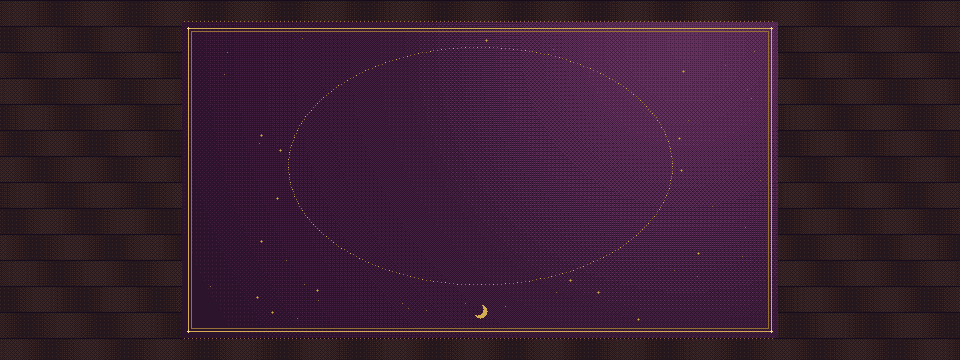
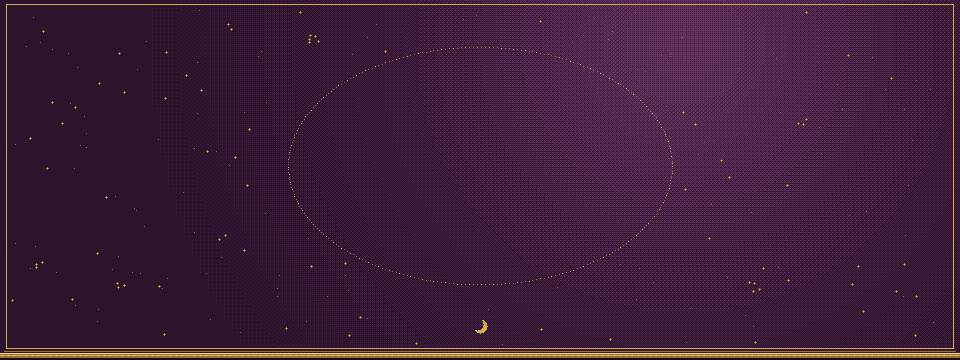
Bàn của Nguyệt: khăn phủ kín như góc mặt Nguyệt, vạt áo và hai tay nghỉ ở mép xa
- Vẽ lại mặt bàn nhìn từ trên cho khớp tấm khăn ở góc mặt Nguyệt: khăn
  phủ kín tới mép bàn (bỏ viền gỗ trơn), viền thêu vàng một nét, mép gần
  là dải viền vàng đính hạt, sao thêu và chòm sao như khăn bên kia.
- Nguyệt ngồi ở mép xa: vạt áo choàng xanh sao (table/robe.png) phủ qua
  mép bàn, phần trên chìm vào bóng tối; hai bàn tay nghỉ ở hai bên vạt áo.
  Tay đang chỉ lá hay đang xào bài thì rời chỗ nghỉ.
- Ảnh mới có nguồn gốc nhúng (embed-prompt, quét 0 thiếu). Cập nhật
  DESIGN.md; ảnh chụp 390 và 1440.

Changed region(s): [[0.0, 0.0, 1.0, 1.0], [0.1875, 0.8861, 0.2188, 0.9167]]

diff --git a/src/components/ui/TableView.tsx b/src/components/ui/TableView.tsx
@@ -59,6 +59,20 @@ function PointingHand() {
   return <Arm hand="point" className="is-pointing" />;
 }
 
+/**
+ * Nguyệt ngồi ở mép xa của bàn: vạt áo choàng phủ lên mép bàn và hai bàn tay nghỉ úp ngay dưới gấu áo,
+ * như ở góc mặt Nguyệt. Bàn tay nào đang chỉ lá hay đang xào bài thì rời chỗ nghỉ (`free`).
+ */
+function Keeper({ free }: { free: "left" | "right" | "both" | null }) {
+  return (
+    <>
+      <span className="table-robe" aria-hidden style={{ backgroundImage: `url("${assetUrl("/assets/table/robe.png")}")` }} />
+      {free !== "left" && free !== "both" && <Arm hand="rest" className="is-resting is-left" />}
+      {free !== "right" && free !== "both" && <Arm hand="rest" className="is-resting is-right" />}
+    </>
+  );
+}
+
 function Slot({ c, i, revealed, active, hand }: { c: DrawnCard; i: number; revealed: boolean; active: boolean; hand: boolean }) {
   return (
     <div className={`table-slot ${active ? "is-active" : ""}`} data-pos={i}>
@@ -78,6 +92,7 @@ export function TableView({ spread, cards, revealed, active, shuffling, picking,
     return (
       <div className={field()} role="img" aria-label="Nguyệt đang xào bài">
         {/* hai nửa bộ bài, mỗi nửa dưới một bàn tay, tách ra rồi gập vào nhau */}
+        <Keeper free="both" />
         <div className="table-shuffle" aria-hidden>
           {["half-a", "half-b"].map((h) => (
             <div key={h} className={`shuffle-half ${h}`}>
@@ -95,6 +110,7 @@ export function TableView({ spread, cards, revealed, active, shuffling, picking,
   if (picking) {
     return (
       <div className={field()}>
+        <Keeper free={null} />
         <p className="table-count" aria-live="polite">
           Đã chọn {picked.length}/{cards.length}
         </p>
@@ -134,8 +150,12 @@ export function TableView({ spread, cards, revealed, active, shuffling, picking,
     );
   }
 
+  // tay chỉ lá dùng bàn tay phía lá đó (lá giữa: tay phải); lá làm rõ không có tay chỉ
+  const pointing = main.findIndex(({ i }) => i === active);
+  const free = pointing < 0 ? null : pointing < (main.length - 1) / 2 ? "left" : "right";
   return (
     <div className={field(extra.length ? "has-extra" : "")}>
+      <Keeper free={free} />
       <div className={`table-spread ${SHAPE[spread]}`}>
         {main.map(({ c, i }) => (
           <Slot key={`${c.card.id}-${i}`} c={c} i={i} revealed={revealed.has(i)} active={active === i} hand />

diff --git a/src/app/globals.css b/src/app/globals.css
@@ -963,6 +963,48 @@ img {
   -webkit-mask-image: linear-gradient(to bottom, transparent 0 16%, rgb(0 0 0 / 0.35) 16% 28%, rgb(0 0 0 / 0.7) 28% 40%, #000 40%);
   mask-image: linear-gradient(to bottom, transparent 0 16%, rgb(0 0 0 / 0.35) 16% 28%, rgb(0 0 0 / 0.7) 28% 40%, #000 40%);
 }
+/* Nguyệt ở mép xa của bàn: vạt áo phủ qua mép bàn, hai bàn tay nghỉ ở hai bên vạt áo, ống tay vươn từ phía nàng ngồi.
+   Cùng thang pixel với lá (1 px ảnh = --w/48); ngồi sát mép trên vùng chơi (field đệm 0.75rem dưới mép đó). */
+.table-field {
+  --w: clamp(72px, min(21.5vw, 15vh), 136px);
+  /* tâm hình trải; desktop có sổ ghim thì trừ cột sổ (đệm phải) ra */
+  --cx: 50%;
+}
+.table-field.has-notebook {
+  --w: clamp(96px, min(13vw, 18.5vh), 176px);
+  --cx: calc(50% - (min(30vw, 360px) + 24px) / 2);
+}
+/* vạt áo nằm dưới mọi bàn tay (tay vươn ra trước người), trên khăn */
+.table-robe {
+  position: absolute;
+  top: -0.75rem;
+  left: var(--cx);
+  width: calc(var(--w) * 96 / 48);
+  height: calc(var(--w) * 34 / 48);
+  transform: translateX(-50%);
+  background-size: 100% 100%;
+  image-rendering: pixelated;
+  pointer-events: none;
+}
+/* bàn tay nghỉ: một đoạn ống tay, cổ tay áo và bàn tay, ngay hai bên vạt áo */
+.table-arm.is-resting {
+  top: calc(-0.75rem + var(--w) * 0.02);
+  bottom: auto;
+  height: calc(var(--aw) * 66 / 34);
+  animation: none;
+}
+.table-arm.is-resting.is-left {
+  left: calc(var(--cx) - var(--w) * 1.12);
+  transform: translateX(-50%) scaleX(-1);
+}
+.table-arm.is-resting.is-right {
+  left: calc(var(--cx) + var(--w) * 1.12);
+  transform: translateX(-50%);
+}
+/* tay trái lật gương: lật luôn hướng bóng để bóng vẫn đổ xuống bên trái (nến ở góc trên phải) */
+.table-arm.is-resting.is-left .arm-shadow {
+  transform: translate(calc(var(--aw) * 0.16), calc(var(--aw) * 0.16));
+}
 /* sổ mở trên điện thoại phủ kín bàn: cất cánh tay để ống tay không thò ra phía trên sổ */
 .table-field:has(> .notebook.is-open) .table-arm {
   display: none;
@@ -1082,6 +1124,7 @@ img {
 @media (max-height: 700px) {
   .table-field:has(> .notebook-peek) {
     padding-top: 1.5rem;
+    --w: clamp(56px, min(21.5vw, 9.5vh), 136px);
   }
   .table-field:has(> .notebook-peek) .table-slot {
     --w: clamp(56px, min(21.5vw, 9.5vh), 136px);

diff --git a/art/table.py b/art/table.py
@@ -12,30 +12,19 @@ import characters
 
 # ------------------------------------------------------------------ mặt bàn
 def tabletop(W, H, seed, CW=None):
-    """Khăn tím mận trên mặt bàn gỗ; viền thêu vàng, sao thêu, vòng đọc bài chấm vàng.
-    CW: bề rộng phần khăn + lề (căn giữa); phần gỗ thừa hai bên để máy lia ngang khi sổ nằm
-    ở góc bàn mà không lộ mép ảnh. Ánh nến đến từ góc trên phải khăn (dither Bayer)."""
+    """Mặt bàn của Nguyệt nhìn từ trên xuống, cùng tấm khăn ở góc mặt Nguyệt (interior.table):
+    khăn tím mận phủ kín tới mép bàn, một đường viền thêu vàng chạy quanh, mép gần phía khách là chỗ
+    khăn gập xuống với dải viền vàng đính hạt; sao thêu và chòm sao như mặt khăn bên kia; vòng đọc bài
+    chấm vàng; trăng khuyết thêu ở mép gần. Mép xa để trơn: vạt áo của Nguyệt phủ lên đó (DOM, .table-robe).
+    CW: bề rộng vùng giữa dùng để đặt vòng đọc bài và chừa chỗ sao; phần thêm hai bên cho máy lia ngang
+    khi sổ nằm ở góc bàn. Ánh nến đến từ góc trên phải (dither Bayer)."""
     CW = CW or W
-    ox = (W - CW) // 2
-    img = new(W, H, 'w0')
+    img = new(W, H, 'p0')
     px = img.load()
-    # gỗ: ván dọc theo chiều ngang, vân bằng dither
-    plank = 26
+    lx, ly = (W - CW) // 2 + CW * 0.82, H * 0.12    # nguồn sáng: ngọn nến
+    diag = math.hypot(CW, H)
     for y in range(H):
         for x in range(W):
-            k = (y // plank)
-            t = ((x * 0.013 + k * 1.7) % 1.0)
-            col = 'w1' if bayer(x, y, 0.35 + 0.3 * math.sin(t * math.tau)) else 'w0'
-            if y % plank == 0:
-                col = 'out'
-            px[x, y] = c(col)
-    # khăn
-    m = 22 if CW > H else 16
-    x0, y0, x1, y1 = ox + m, m, ox + CW - 1 - m, H - 1 - m
-    lx, ly = ox + CW * 0.82, H * 0.12    # nguồn sáng: ngọn nến
-    diag = math.hypot(CW, H)
-    for y in range(y0, y1 + 1):
-        for x in range(x0, x1 + 1):
             light = 1 - math.hypot(x - lx, y - ly) / diag      # 0..1
             col = 'p0'
             if bayer(x, y, max(0, light - .25) * 1.6):
@@ -44,38 +33,51 @@ def tabletop(W, H, seed, CW=None):
                 col = 'p2'
             px[x, y] = c(col)
     d = draw(img)
-    # viền thêu: hai đường vàng + chấm ở góc
-    for inset, col in ((6, 'au1'), (9, 'au0')):
-        d.rectangle([x0 + inset, y0 + inset, x1 - inset, y1 - inset], outline=c(col))
-    for (cx, cy) in ((x0 + 6, y0 + 6), (x1 - 6, y0 + 6), (x0 + 6, y1 - 6), (x1 - 6, y1 - 6)):
-        for dx, dy in [(0, 0), (1, 0), (-1, 0), (0, 1), (0, -1)]:
-            put(img, cx + dx, cy + dy, 'au2')
-    # tua rua ở mép khăn
-    for x in range(x0 + 2, x1 - 1, 4):
-        put(img, x, y0 - 1, 'au0')
-        put(img, x, y1 + 1, 'au0')
-        put(img, x, y1 + 2, 'au0' if x % 8 == 2 else 'p0')
-    # sao thêu rải, chừa vùng giữa cho lá bài
+    # đường viền thêu một nét quanh mặt bàn, như mặt khăn ở góc mặt Nguyệt
+    d.rectangle([6, 4, W - 7, H - 12], outline=c('au1'))
+    # mép gần: khăn gập xuống phía khách, hai đường vàng rồi dải viền đính hạt
+    d.line([(4, H - 9), (W - 5, H - 9)], fill=c('au0'))
+    d.line([(0, H - 7), (W, H - 7)], fill=c('au2'))
+    d.rectangle([0, H - 6, W, H - 3], fill=c('au0'))
+    d.line([(0, H - 5), (W, H - 5)], fill=c('au1'))
+    for x in range(2, W, 6):
+        put(img, x, H - 5, 'au2')
+    d.rectangle([0, H - 2, W, H - 1], fill=c('out'))
+    # sao thêu: chấm vàng, một phần là sao bốn cánh, cùng mật độ cảm giác như mặt khăn bên kia;
+    # chừa vòng đọc bài để lá bài nằm trên nền yên
     r = rng(seed)
-    for _ in range(int(CW * H / 2600)):
-        x, y = r.randint(x0 + 16, x1 - 16), r.randint(y0 + 16, y1 - 16)
-        if abs(x - W / 2) < CW * 0.3 and abs(y - H * 0.46) < H * 0.3:
-            continue
+    rx, ry = (CW * 0.30, H * 0.33) if CW > H else (CW * 0.40, H * 0.27)
+    cx, cy = W / 2, H * 0.46
+
+    def star(x, y, big):
         put(img, x, y, 'au0')
-        if r.random() < .35:
+        if big:
             for dx, dy in [(1, 0), (-1, 0), (0, 1), (0, -1)]:
                 put(img, x + dx, y + dy, 'au0')
             put(img, x, y, 'au1')
+
+    for _ in range(int(W * H / 1500)):
+        x, y = r.randint(12, W - 13), r.randint(10, H - 16)
+        if ((x - cx) / (rx + 10)) ** 2 + ((y - cy) / (ry + 10)) ** 2 < 1:
+            continue
+        star(x, y, r.random() < .3)
+    # vài chòm sao nhỏ (ba tới năm sao nối nhau) ngoài vòng đọc bài
+    for _ in range(max(3, int(W * H / 60000))):
+        for _try in range(20):
+            x, y = r.randint(24, W - 25), r.randint(18, H - 30)
+            if ((x - cx) / (rx + 24)) ** 2 + ((y - cy) / (ry + 24)) ** 2 >= 1:
+                break
+        for _k in range(r.randint(3, 5)):
+            star(x, y, True)
+            x += r.randint(-9, 9)
+            y += r.randint(-6, 6)
     # vòng đọc bài: elip chấm vàng
-    # bản ngang: vòng nhỏ hơn một chút để sổ nằm mở bên phải mà không cắt vòng
-    rx, ry = (CW * 0.30, H * 0.33) if CW > H else (CW * 0.40, H * 0.27)
-    cx, cy = W / 2, H * 0.46
     steps = int(2 * math.pi * max(rx, ry) / 4)
     for i in range(steps):
         a = 2 * math.pi * i / steps
         put(img, round(cx + rx * math.cos(a)), round(cy + ry * math.sin(a)), 'au0' if i % 3 else 'au1')
-    # trăng khuyết thêu ở mép gần (phía khách)
-    mx, my = int(W / 2), int(y1 - (26 if CW > H else 34))
+    # trăng khuyết thêu ở mép gần (phía khách), như trăng trên vạt khăn ở góc mặt Nguyệt
+    mx, my = int(W / 2), int(H - (34 if CW > H else 44))
     for y in range(my - 9, my + 10):
         for x in range(mx - 9, mx + 10):
             if (x - mx) ** 2 + (y - my) ** 2 <= 7 ** 2 and (x - mx + 3) ** 2 + (y - my + 2) ** 2 > 6 ** 2:
@@ -83,7 +85,48 @@ def tabletop(W, H, seed, CW=None):
     return img
 
 
-# ------------------------------------------------------------------ tay Nguyệt (đưa từ phía bên kia bàn, nhìn từ trên)
+def robe():
+    """Lòng Nguyệt nhìn từ trên xuống, nàng ngồi bên kia mép xa của bàn: vạt áo choàng xanh sao phủ qua mép bàn,
+    gấu vàng cong chùng ở giữa, hai bên bo tròn (hai tay vươn ra từ hai bên, .table-arm.is-resting).
+    Phần trên chìm dần vào bóng tối phía nàng ngồi (dither tới 'out'), nên mép cắt ở đỉnh vùng chơi không lộ.
+    Cùng chất liệu ống tay (n1..n3, sao kem). Dưới gấu là bóng đổ lên khăn bằng dither."""
+    W, H = 96, 34
+    img = new(W, H)
+    px = img.load()
+    for x in range(W):
+        t = (x + 0.5) / W
+        u = 2 * t - 1                                      # -1..1
+        # gấu áo: cung elip, thấp nhất ở giữa, bo lên ở hai bên
+        hem = int(8 + 18 * math.sqrt(max(0.0, 1 - u * u)))
+        for y in range(0, hem + 1):
+            dark = 1 - y / max(1, hem)                     # 1 ở đỉnh, 0 ở gấu
+            col = 'n2'
+            if bayer(x, y, 0.25 + 0.45 * abs(u) ** 2):     # hai bên tối hơn (bo tròn)
+                col = 'n1'
+            if bayer(x, y, max(0, dark - 0.45) * 1.9):     # đỉnh chìm vào bóng tối
+                col = 'out'
+            px[x, y] = c(col)
+        # nếp gấp dọc ở giữa vạt
+        if abs(u) < 0.75 and x % 13 in (0, 1):
+            for y in range(int(hem * 0.45), hem - 2):
+                px[x, y] = c('n3' if x % 13 == 0 else 'n1')
+        # viền gấu vàng
+        if abs(u) < 0.97:
+            px[x, hem] = c('au0')
+            px[x, hem - 1] = c('au1' if x % 4 else 'au2')
+            if hem + 1 < H:
+                px[x, hem + 1] = c('out')
+            for k, dens in ((2, .7), (3, .45), (4, .25), (5, .12)):
+                if hem + k < H and bayer(x, hem + k, dens):
+                    px[x, hem + k] = c('out')
+    r = rng(5)
+    for _ in range(18):
+        x, y = r.randint(6, W - 7), r.randint(8, 22)
+        if px[x, y][3] and px[x, y][:3] == PAL['n2']:
+            put(img, x, y, 'cr')
+    return img
+
+
 def sleeve_and_hand(point=True):
     """Ống tay áo xanh đêm viền vàng chạy từ mép trên xuống, bàn tay úp, ngón trỏ duỗi khi chỉ."""
     W, H = 34, 66
@@ -258,6 +301,7 @@ def build():
     save(book(), 'table/book.png')
     save(book_frame(), 'table/book_frame.png', opaque=True)
     save(sleeve_tile(), 'table/sleeve_tile.png')
+    save(robe(), 'table/robe.png')
     for rel, im in portraits().items():
         save(im, rel)
 

diff --git a/DESIGN.md b/DESIGN.md
@@ -386,6 +386,8 @@ Mỗi góc một lối, đặt theo chỗ khách đang nhìn. Ở mặt Nguyệt
 Lá trên bàn rộng clamp(72px, min(21.5vw, 15vh), 136px); trên desktop có sổ ghim, lá lớn theo chiều cao clamp(96px, min(13vw, 18.5vh), 176px) (150 px ở 1440×810) và hình trải dồn xuống gần hộp thoại, để phía trên còn chỗ cho bàn tay Nguyệt. Lá làm rõ clamp(54px, min(7.5vw, 10vh), 96px); khi có hàng lá làm rõ, hình trải chính nhỏ lại, tam giác dẹt hơn và hai hàng sát nhau (1rem), để cả ba lá làm rõ vẫn vừa trên hộp thoại không phải cuộn. Góc mặt bàn chỉ chừa khe 0.75rem dưới thanh trên cùng vì không có nút giữa đỉnh. Chú thích dưới lá có vùng cố định hai dòng (cao tối thiểu 3.6rem) để hàng lá không xô lệch khi tên dài: vị trí (khói sương, một dòng; "· ngược" xanh trăng nối vào dòng này) và tên lá (ngọn lửa, tối đa 2 dòng, cắt phần thừa), mỗi dòng nằm trên một tấm mực rgba(8, 6, 13, 0.66) để đọc được cả trên vùng khăn sáng nhất cạnh nến. Bộ đếm lá lúc chọn dùng cùng tấm mực.
 
 ### Cánh tay Nguyệt
+**Bàn của Nguyệt.** Góc mặt bàn là đúng chiếc bàn ở góc mặt Nguyệt, nhìn từ trên xuống: khăn tím mận phủ kín tới mép bàn với một đường viền thêu vàng, mép gần phía khách là dải viền vàng đính hạt nơi khăn gập xuống, sao thêu và vài chòm sao như mặt khăn bên kia, vòng đọc bài chấm vàng, trăng khuyết thêu ở mép gần; không còn viền gỗ trơn quanh khăn. Nguyệt ngồi ở mép xa: vạt áo choàng xanh sao (`table/robe.png`, cùng chất liệu ống tay) phủ qua mép bàn, gấu vàng cong chùng ở giữa, phần trên chìm vào bóng tối; hai bàn tay nghỉ ở hai bên vạt áo như ở góc mặt Nguyệt. Tay nào đang chỉ lá (lá bên trái dùng tay trái, lá giữa và lá phải dùng tay phải) hay đang xào bài thì rời chỗ nghỉ. Vạt áo nằm dưới mọi bàn tay, trên khăn; cùng thang pixel với lá (1 px ảnh = bề rộng lá / 48).
+
 Ống tay là một mảnh pixel lặp dọc phía trên bàn tay, nối liền bàn tay (chồng 1 px để không hở mối nối). Tay chỉ lá chỉ cao 2.1 lá: thấy bàn tay, cổ tay và một đoạn cẳng tay, phần trên chìm dần vào bóng tối phía Nguyệt theo ba bậc trong suốt (mask 0 → 35% → 70% → đặc), để lá ở hàng dưới không kéo theo một ống tay dài từ mép xa của bàn. Bàn tay chỉ vào ngay trên mép trên của lá đang được nói, không bao giờ che tên hay hình lá; bề rộng theo cỡ lá (34/48). Tay trượt vào trong 0.45s, tắt khi khách bật giảm chuyển động. Cánh tay không hiện trên hàng lá làm rõ và cất đi khi sổ đang mở phủ bàn trên điện thoại. Lúc xào bài, bộ bài nằm ngay trước mặt Nguyệt, sát mép xa của bàn, nên chỉ thấy bàn tay, cổ tay và một đoạn cẳng tay ngắn như người thật xào bài trước người mình (không kéo ống tay dài tới giữa bàn); hai bàn tay nghỉ úp lên hai nửa bộ bài (không trượt vào), hai nửa tách ra rồi gập vào theo `steps(3)`. Bóng tiếp xúc đổ xuống bên trái (xem Elevation & Depth).
 
 ### Ô chân dung
